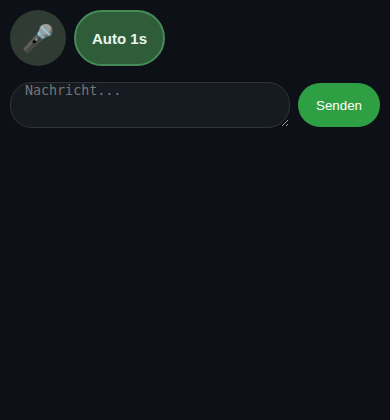
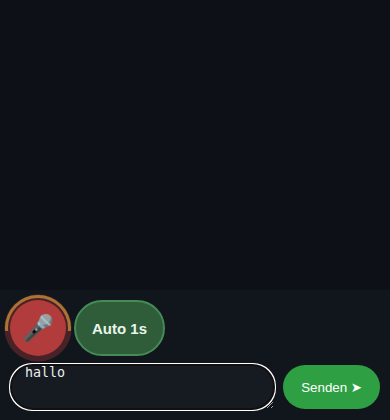
Eingabezeile in eigene Huelle setzen statt auf CSS der Seite zu hoffen
Die Versuche ueber flex-wrap sind auch mit "important" gescheitert.
Jetzt bekommt die Eingabezeile eine eigene Huelle: Leiste und Zeile
stehen darin als Bloecke untereinander. Das haengt von keiner Regel der
Seite mehr ab.

Damit die Huelle den Platz der Zeile einnimmt, werden deren
Layoutangaben uebernommen (flex, order, align-self, grid-area, width).

Gegen sieben Aufbauten geprueft, darunter feste Fussleiste mit
flex-wrap: nowrap !important. Ueberall zweizeilig, Senden-Knopf auf
Hoehe des Feldes, Diktat kommt an.

Claude-Session: https://claude.ai/code/session_016D5aPtDDW6MvydQyngHwbh

diff --git a/hermes-mikrofon/mikrofon.js b/hermes-mikrofon/mikrofon.js
@@ -68,9 +68,14 @@
     const s = document.createElement("style");
     s.id = "mikrofon-stil";
     s.textContent = `
+      .mikrofon-huelle {
+        display: block !important;
+        box-sizing: border-box;
+      }
       .mikrofon-leiste {
-        display: flex; align-items: center; gap: 8px;
-        width: 100%; margin: 0 0 8px 0;
+        display: flex !important; align-items: center; gap: 8px;
+        width: 100% !important; margin: 0 0 8px 0;
+        flex-wrap: wrap;
       }
       .mikrofon-knopf {
         width: 56px; height: 56px; min-width: 56px;
@@ -199,22 +204,30 @@
     // Spaltenbreite, sonst reicht ein Block-Element mit 100 Prozent.
     const leiste = document.createElement("div");
     leiste.className = "mikrofon-leiste";
-    const eltern = gemeinsamerBehaelter(feld, knopfFinden()) || feld.parentNode;
-    eltern.insertBefore(leiste, eltern.firstChild);
+    // Die Eingabezeile bekommt eine eigene Huelle. Leiste und Zeile stehen
+    // darin als Bloecke untereinander - das kann keine Regel der Seite mehr
+    // verhindern. Vorherige Versuche ueber flex-wrap wurden vom Stylesheet
+    // ueberstimmt, auch mit "important".
+    const zeile = gemeinsamerBehaelter(feld, knopfFinden()) || feld.parentNode;
+    const huelle = document.createElement("div");
+    huelle.className = "mikrofon-huelle";
+
+    // Damit die Huelle den Platz der Zeile einnimmt: deren Layoutangaben
+    // uebernehmen, sonst rutscht sie im Eltern-Flex an die falsche Stelle.
     try {
-      const stil = getComputedStyle(eltern);
-      // Mit "important" gesetzt, sonst kann ein nowrap aus dem Stylesheet
-      // der Seite den Umbruch verhindern und alles bleibt einzeilig.
-      if (/flex/.test(stil.display)) {
-        eltern.style.setProperty("flex-wrap", "wrap", "important");
-        leiste.style.setProperty("flex", "1 0 100%", "important");
-        leiste.style.setProperty("order", "-1", "important");
-      } else if (/grid/.test(stil.display)) {
-        leiste.style.setProperty("grid-column", "1 / -1", "important");
-        leiste.style.setProperty("order", "-1", "important");
+      const z = getComputedStyle(zeile);
+      for (const eig of ["flex", "order", "alignSelf", "gridArea", "width", "maxWidth"]) {
+        if (z[eig] && z[eig] !== "auto" && z[eig] !== "none") huelle.style[eig] = z[eig];
       }
-      leiste.style.setProperty("width", "100%", "important");
-    } catch (e) { /* Standard greift: Block ueber volle Breite */ }
+    } catch (e) { /* egal */ }
+
+    if (zeile.parentNode) {
+      zeile.parentNode.insertBefore(huelle, zeile);
+      huelle.appendChild(leiste);
+      huelle.appendChild(zeile);
+    } else {
+      zeile.insertBefore(leiste, zeile.firstChild);
+    }
 
     leiste.appendChild(knopf);
 
